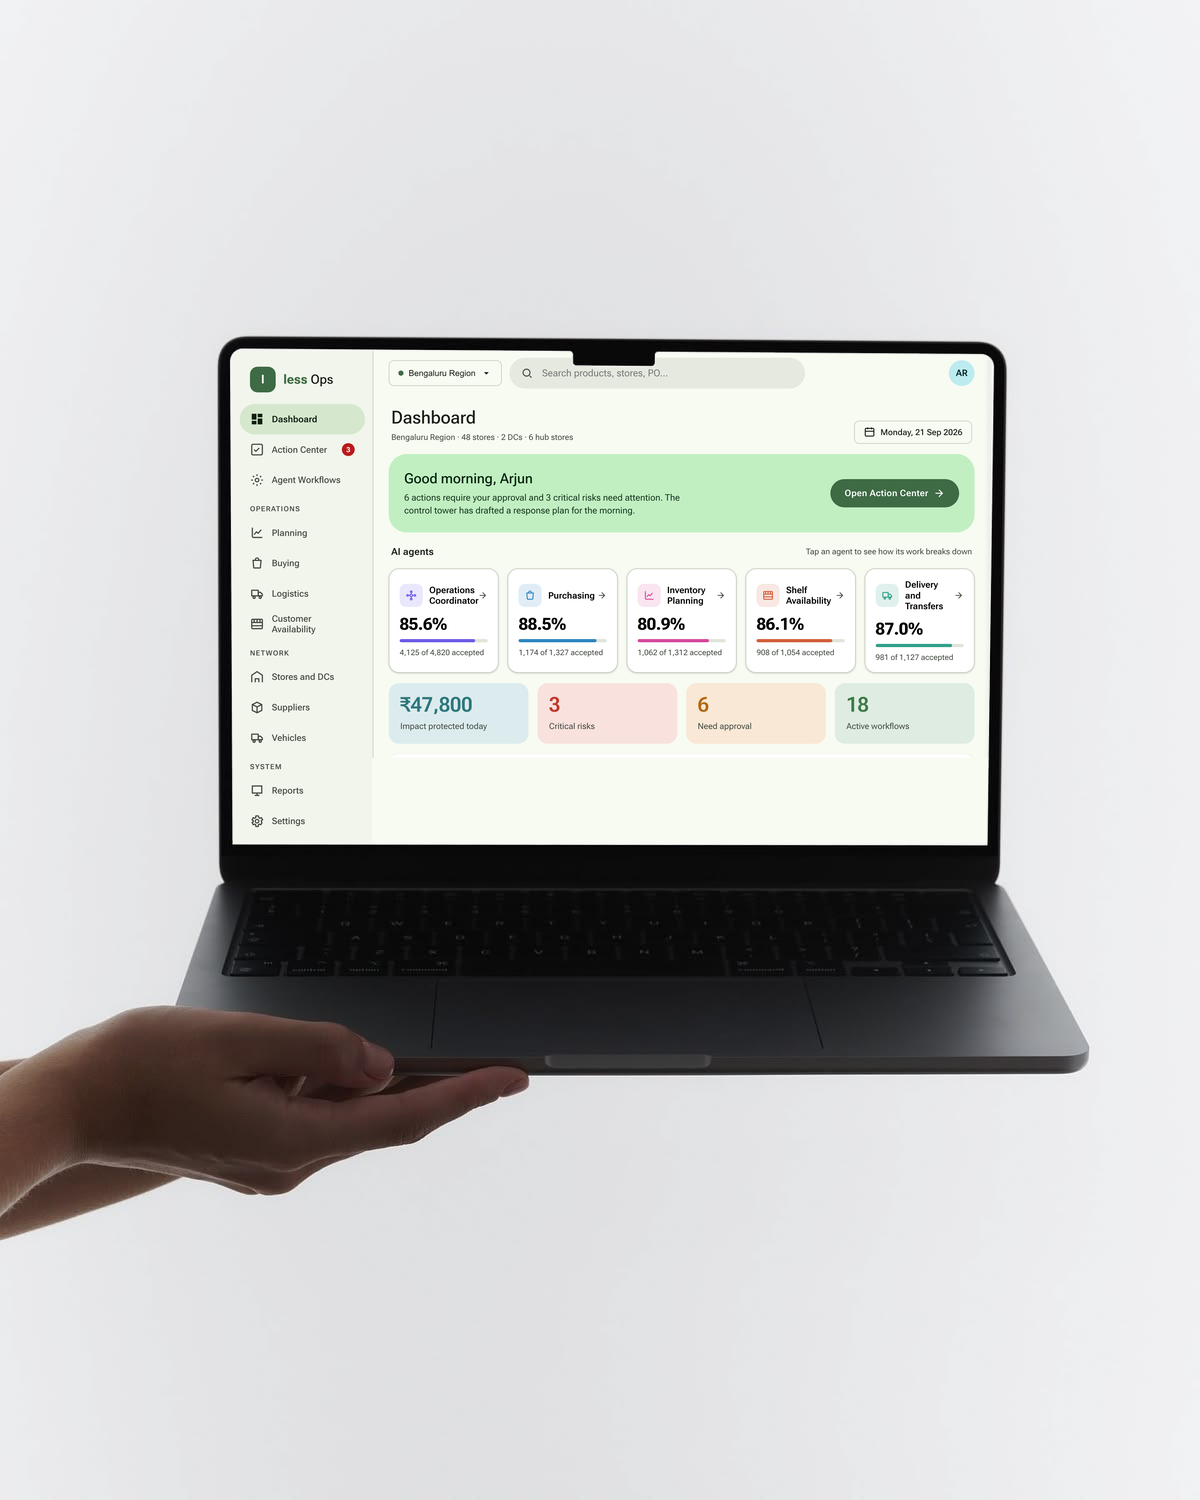
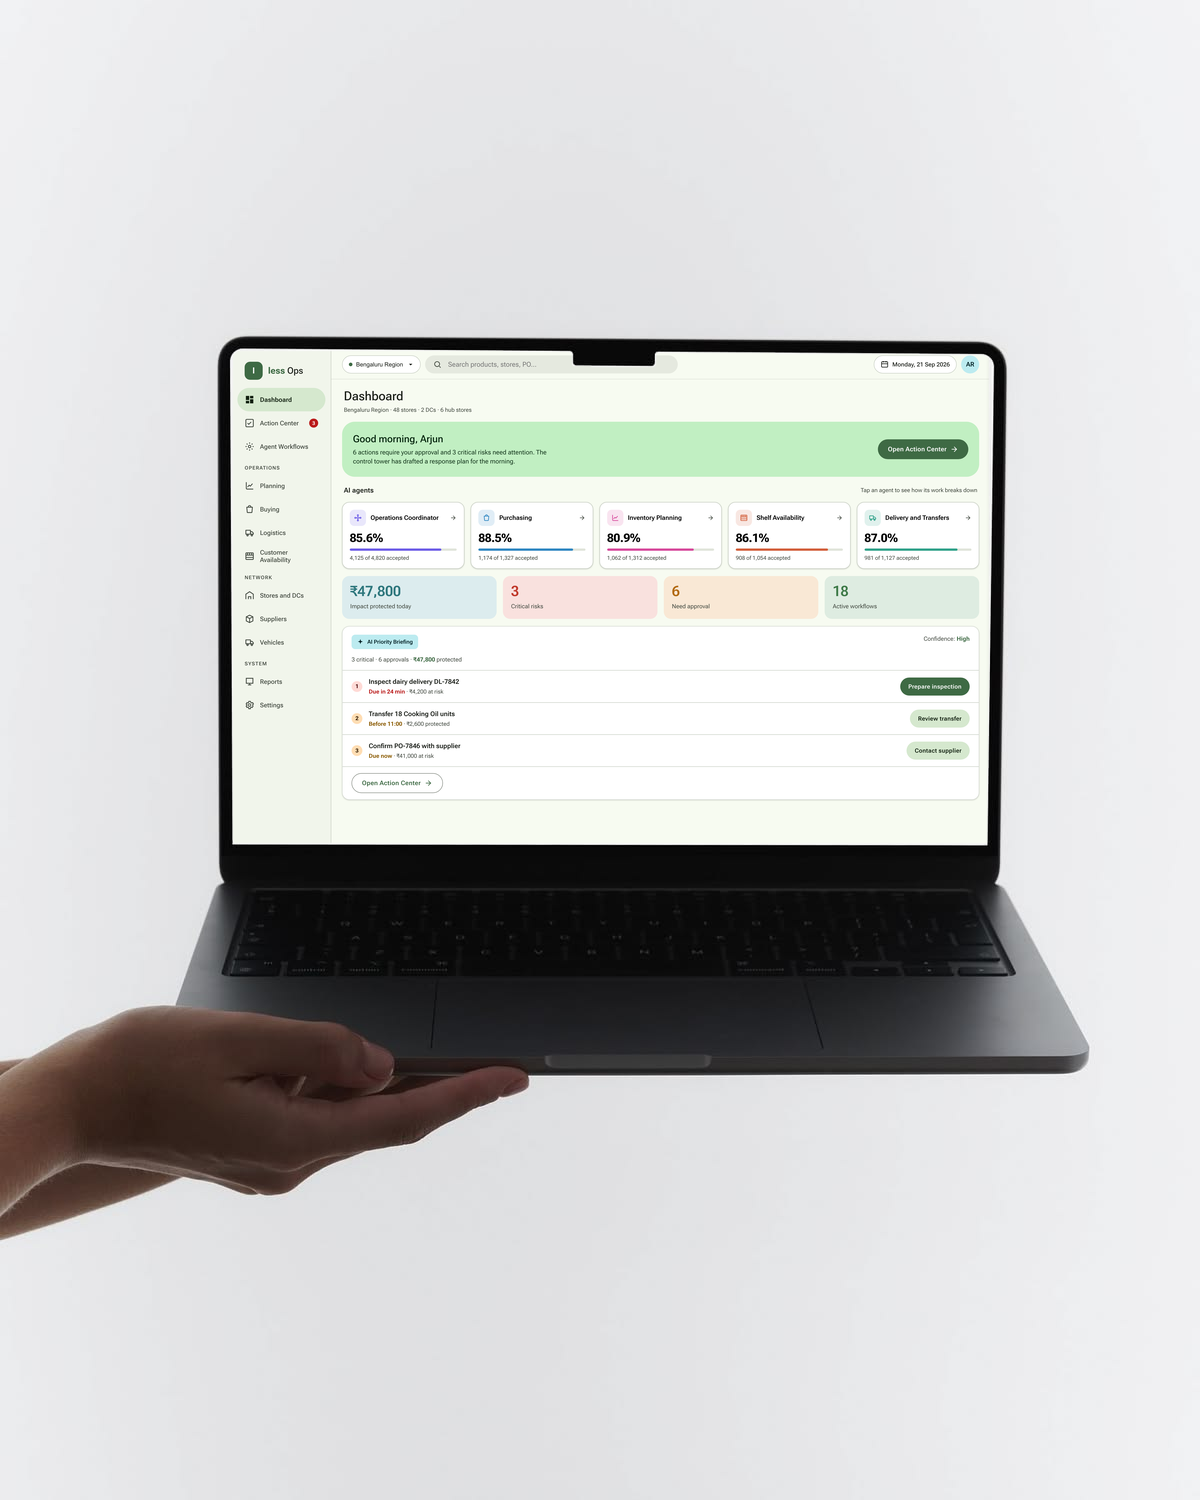
Put the latest less Ops dashboard on the laptop, with room around it
The prototype has moved on — the date now sits in the top bar — so the
screen is recaptured from the live build. At the laptop screen's own
proportions the page ran on past the priority briefing and a sliver of
the next section showed along the bottom edge; below the briefing card
the main column is the page's own ground, so the screen ends on a whole
card with a clear margin under it.

Both the case study hero and the home card are rebuilt from it with
more ground around the laptop: it no longer reaches close to the top or
bottom of either frame, and stays centred in both.

Changed region(s): [[0.185, 0.2453, 0.8325, 0.552]]

diff --git a/less-ops-case-study.html b/less-ops-case-study.html
@@ -33,7 +33,7 @@
           <div><dt>Output</dt><dd>Interactive prototype</dd></div>
         </dl>
       </div>
-      <figure class="hero-image hero-image--device"><img src="media/less-ops/hero-wide.webp?v=1" alt="The less Ops dashboard on a laptop held in one hand, showing the morning greeting, the five agents and the day's totals."></figure>
+      <figure class="hero-image hero-image--device"><img src="media/less-ops/hero-wide.webp?v=2" alt="The less Ops dashboard on a laptop held in one hand, showing the morning greeting, the five agents and the day's totals."></figure>
       <p class="caption">The morning view: what needs a decision, and what the agents have already drafted.</p>
     </section>
 

diff --git a/script.js b/script.js
@@ -273,7 +273,7 @@ const WORK = [
     // Decoded from the case study's own hero mockup and letterboxed onto the
     // artwork's background, so the laptop keeps its full width — the same
     // reason the insure-tech plate is padded rather than cover-cropped.
-    thumb: "media/less-ops-card.webp?v=8",
+    thumb: "media/less-ops-card.webp?v=9",
     // Opens in a tab rather than the portal: this one is a deployed site, not
     // a study embedded in the page, and it carries its own navigation.
     href: "https://less-ops.vercel.app/",

diff --git a/index.html b/index.html
@@ -368,6 +368,6 @@
   </footer>
 
   <script src="hand.js?v=254"></script>
-  <script src="script.js?v=417"></script>
+  <script src="script.js?v=418"></script>
 </body>
 </html>
